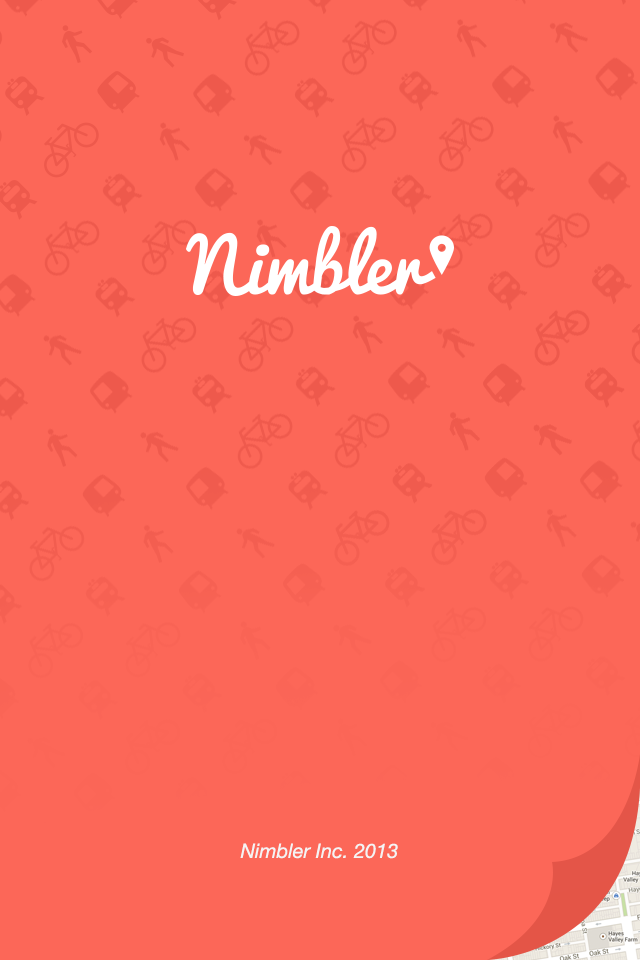
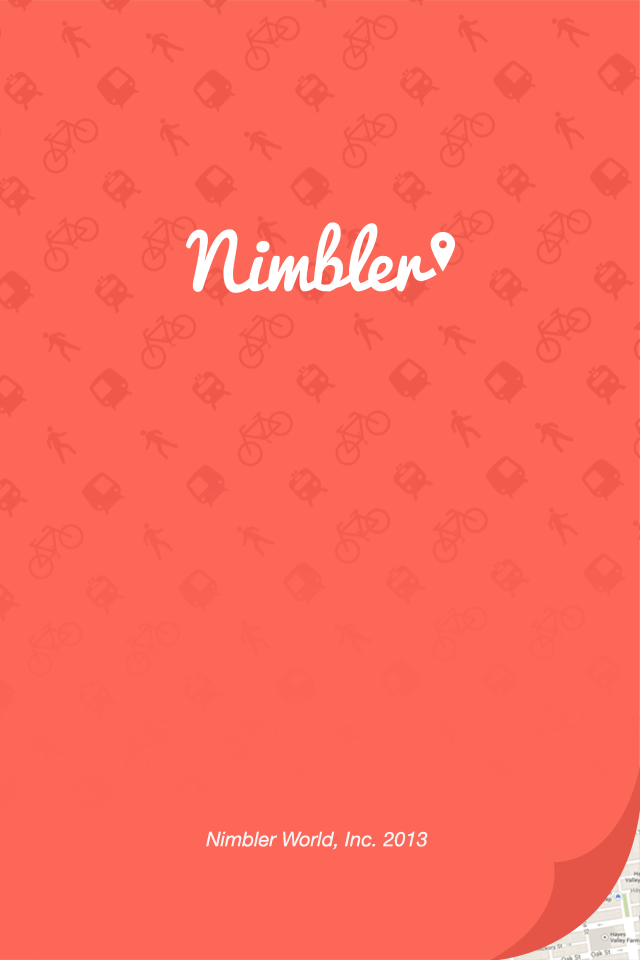
- US243 implementation (simplify reverse direction button operation)  - Update splash screens to Nimbler World

Changed region(s): [[0.2812, 0.2188, 0.7188, 0.3125], [0.3125, 0.8438, 0.6562, 0.9062], [0.8438, 0.8438, 1.0, 1.0]]

diff --git a/ViewController/ToFromViewController.m b/ViewController/ToFromViewController.m
@@ -2151,22 +2151,16 @@ UIImage *imageDetailDisclosure;
         }
     }
     //DE-237 Fixed
-    if(fromLocation == toLocation ||
-       ([fromLocation isCurrentLocation] && [fromLocation isReverseGeoValid] && [fromLocation reverseGeoLocation] == toLocation)) {
+    // US-243 implementation (removing custom code so we do not treat Current Location differently)
+    if(fromLocation == toLocation) {
+        // Do nothing if locations are the same
     }
-    else{
-        if (fromLocation == currentLocation && [currentLocation lastRequestReverseGeoLocation] &&
-            [currentLocation lastRequestReverseGeoLocation] != toLocation) {
-            // If from = currentLocation and there is a reverse geolocation
-            [toTableVC markAndUpdateSelectedLocation:[currentLocation lastRequestReverseGeoLocation]];
-        }
-        else {  // do a normal swap
-            Location *fromloc = fromLocation;
-            Location *toLoc = toLocation;
-            // Swap Location (could be nil)
-            [toTableVC markAndUpdateSelectedLocation:fromloc];
-            [fromTableVC markAndUpdateSelectedLocation:toLoc];
-        }
+    else {  // do a normal swap
+        Location *fromloc = fromLocation;
+        Location *toLoc = toLocation;
+        // Swap Location (could be nil)
+        [toTableVC markAndUpdateSelectedLocation:fromloc];
+        [fromTableVC markAndUpdateSelectedLocation:toLoc];
     }
     
     Location *selectedFromLocation = [locations selectedFromLocation];
